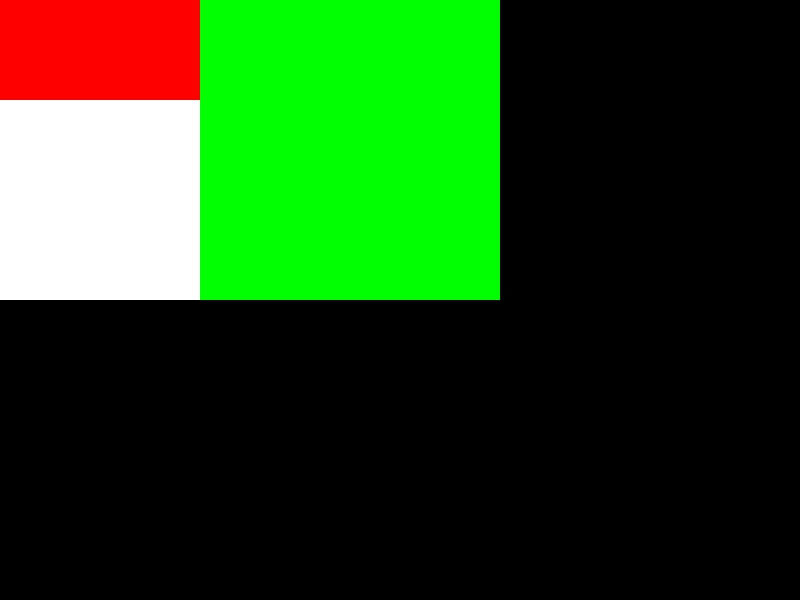
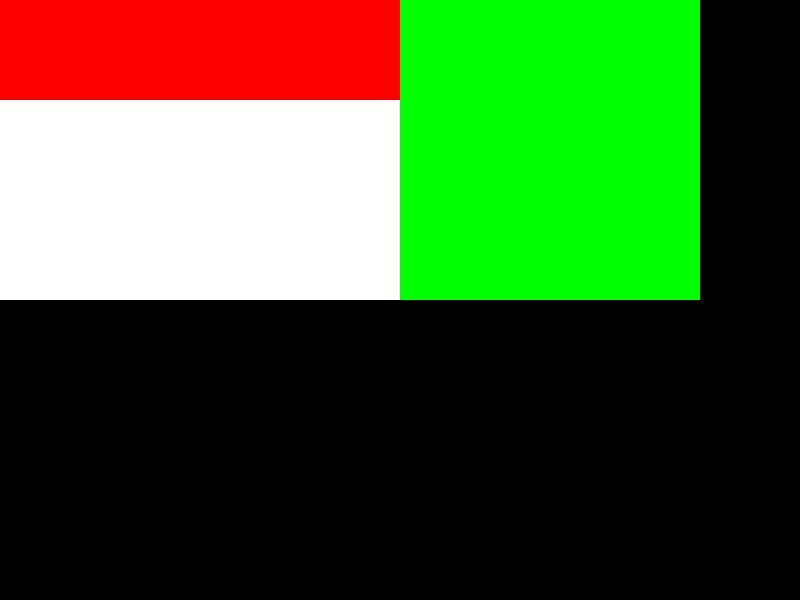
总结

Changed region(s): [[0.625, 0.0, 0.875, 0.51], [0.25, 0.0, 0.5, 0.51]]

diff --git a/Week10/server.js b/Week10/server.js
@@ -1,4 +1,36 @@
 const http = require('http');
+
+const HTML = `<html maaa=a>
+<head> 
+<style>
+body{
+	background-color: rgb(0,0,0);
+}
+#box{
+width:700px;
+height:300px;
+display:flex;
+background-color: rgb(255,255,255);
+}
+#box #myid{
+width:400px;
+height:100px;
+background-color: rgb(255,0,0);
+}
+#box .c1{
+flex:1;
+background-color: rgb(0,255,0);
+}
+</style>
+</head>
+<body>
+<div id="box">
+<div id="myid" > </div>
+<div class="c1" > </div>
+</div>
+</body>
+</html>`
+
 http.createServer((request, response) => {
 	let body = [];
 	request.on("error", (err) => {
@@ -10,34 +42,7 @@ http.createServer((request, response) => {
 		body = Buffer.concat(body).toString();
 		console.log("body", body);
 		response.writeHead(200, { 'Content-Type': 'text/html' });
-		response.end(
-			`<html maaa=a>
-<head> 
-	<style>
-#box{
-	width:500px;
-	height:300px;
-	display:flex;
-	background-color: rgb(255,255,255);
-}
-#box #myid{
-	width:200px;
-	height:100px;
-	background-color: rgb(255,0,0);
-}
-#box .c1{
-	flex:1;
-	background-color: rgb(0,255,0);
-}
-	</style>
-</head>
-<body>
-	<div id="box">
-		<div id="myid" > </div>
-		<div class="c1" > </div>
-	</div>
-</body>
-</html>`);
+		response.end(HTML);
 	})
 }).listen(8088);
 

diff --git a/Week10/README.md b/Week10/README.md
@@ -1,1 +1,25 @@
-学习笔记
+# 浏览器的渲染流程
+ * URL--HTTP-->HTML--parse-->DOM--css computing-->DOM with css--layout--> DOM with position--render-->Bitmap
+
+# 排版/布局（layout）
+ * 根据浏览器的属性进行排版
+ * 三代排版技术
+ ```
+ 正常流: position, display, float, ...
+ Flex
+ Grid
+ ```
+ 
+## 收集元素进行
+ * 根据主轴尺寸，进行元素分行 若设置了'no-wrap' 就需要分到新的一行
+
+## 主轴的计算
+ * 计算主轴方向 *　找出所有Flex元素 *　把轴方向的剩余尺寸按比例分配 *　剩余尺寸<0，所有flex元素为0，等比例压缩剩余元素
+
+## 交叉轴的计算
+ * 根据每一行中最大元素尺寸计算行高
+ * 根据行高flex-align 和 item-align，确定元素具体位置
+
+##渲染
+ * 绘制单个元素
+ * 绘制DOM树
